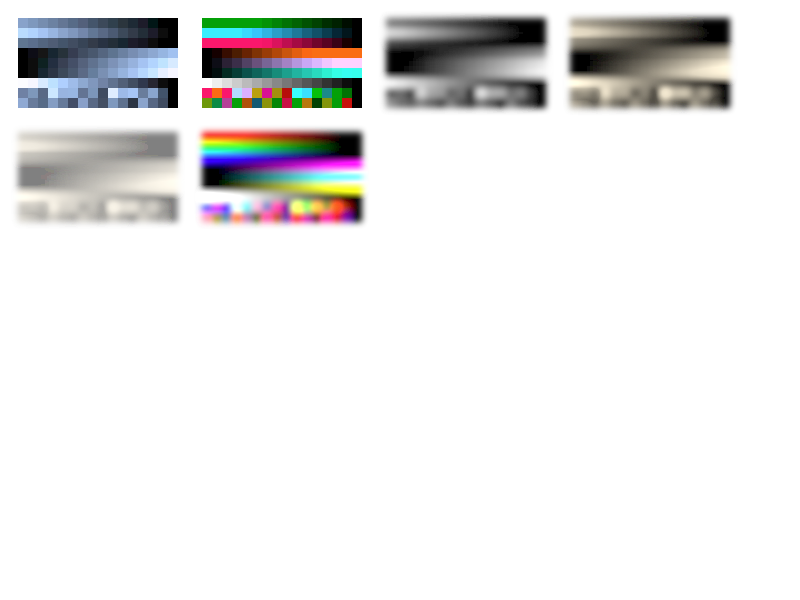
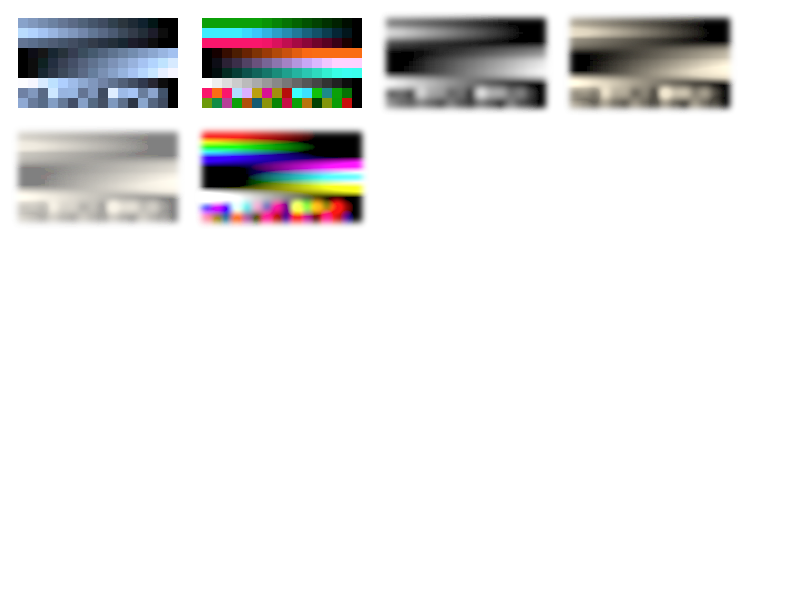
Implement hardware accelerated Brightness and contrast filters https://bugs.webkit.org/show_bug.cgi?id=75521 https://bugs.webkit.org/show_bug.cgi?id=76719
Reviewed by Simon Fraser.

Source/WebCore:

Implemented hardware accelerated brightness and contrast filters. This also fixes
the bug where grayscale filter was accidentally never getting hardware accelerated.
It also complies with proposed spec changes for the brightness filter to be additive
rather than multiplicative, according to https://bugs.webkit.org/show_bug.cgi?id=76719.
Had to make both fixes in the same patch because I had to change the allowed brightness
values for the hardware version, so I had to change the software version as well.

Tests: css3/filters/effect-brightness-hw.html
       css3/filters/effect-contrast-hw.html

* css/CSSParser.cpp:
(WebCore::CSSParser::parseBuiltinFilterArguments):
* css/CSSStyleSelector.cpp:
(WebCore::CSSStyleSelector::createFilterOperations):
* platform/graphics/ca/mac/PlatformCALayerMac.mm:
(PlatformCALayer::setFilters):
(PlatformCALayer::filtersCanBeComposited):
* rendering/FilterEffectRenderer.cpp:
(WebCore::FilterEffectRenderer::build):

LayoutTests:

New tests for hardware accelerated brightness and contrast filters. Also
added brightness and contrast values to effect-combined-hw test. And changed
brightness values in effect-brightness.html to reflect new spec.
Also fixed parsing and computed style tests to reflect new brightness spec.

* css3/filters/effect-brightness-expected.png:
* css3/filters/effect-brightness-hw-expected.png: Added.
* css3/filters/effect-brightness-hw-expected.txt: Added.
[…]

Changed region(s): [[0.25, 0.21, 0.4688, 0.39]]

diff --git a/css3/filters/script-tests/filter-property-computed-style.js b/css3/filters/script-tests/filter-property-computed-style.js
@@ -231,11 +231,6 @@ testComputedFilterRule("Integer value",
                       ["WebKitCSSFilterValue.CSS_FILTER_BRIGHTNESS"],
                       ["brightness(1)"]);
 
-testComputedFilterRule("Value greater than 1",
-                      "brightness(2)", 1,
-                      ["WebKitCSSFilterValue.CSS_FILTER_BRIGHTNESS"],
-                      ["brightness(2)"]);
-
 testComputedFilterRule("Float value converts to integer",
                       "brightness(1.0)", 1,
                       ["WebKitCSSFilterValue.CSS_FILTER_BRIGHTNESS"],
@@ -249,7 +244,7 @@ testComputedFilterRule("Zero value",
 testComputedFilterRule("No values",
                       "brightness()", 1,
                       ["WebKitCSSFilterValue.CSS_FILTER_BRIGHTNESS"],
-                      ["brightness(1)"]);
+                      ["brightness(0)"]);
 
 testComputedFilterRule("Multiple values",
                       "brightness(0.5) brightness(0.25)", 2,
@@ -363,7 +358,7 @@ testComputedFilterRule("Multiple operations",
                ]);
 
 testComputedFilterRule("Percentage values",
-                      "grayscale(50%) sepia(25%) saturate(75%) invert(20%) opacity(90%) brightness(130%) contrast(30%)", 7,
+                      "grayscale(50%) sepia(25%) saturate(75%) invert(20%) opacity(90%) brightness(60%) contrast(30%)", 7,
                       [
                           "WebKitCSSFilterValue.CSS_FILTER_GRAYSCALE",
                           "WebKitCSSFilterValue.CSS_FILTER_SEPIA",
@@ -379,7 +374,7 @@ testComputedFilterRule("Percentage values",
                           "saturate(0.75)",
                           "invert(0.2)",
                           "opacity(0.9)",
-                          "brightness(1.3)",
+                          "brightness(0.6)",
                           "contrast(0.3)"
               ]);
 

diff --git a/css3/filters/script-tests/filter-property-parsing.js b/css3/filters/script-tests/filter-property-parsing.js
@@ -301,11 +301,6 @@ testFilterRule("Percentage value",
               ["WebKitCSSFilterValue.CSS_FILTER_BRIGHTNESS"],
               ["brightness(50%)"]);
 
-testFilterRule("Percentage value > 1",
-              "brightness(150%)", 1, "brightness(150%)",
-              ["WebKitCSSFilterValue.CSS_FILTER_BRIGHTNESS"],
-              ["brightness(150%)"]);
-
 testFilterRule("Float value converts to integer",
               "brightness(1.0)", 1, "brightness(1)",
               ["WebKitCSSFilterValue.CSS_FILTER_BRIGHTNESS"],
@@ -320,11 +315,6 @@ testFilterRule("No values",
               "brightness()", 1, "brightness()",
               ["WebKitCSSFilterValue.CSS_FILTER_BRIGHTNESS"],
               ["brightness()"]);
-
-testFilterRule("Value greater than one",
-              "brightness(2)", 1, "brightness(2)",
-              ["WebKitCSSFilterValue.CSS_FILTER_BRIGHTNESS"],
-              ["brightness(2)"]);
 
 testFilterRule("Multiple values",
               "brightness(0.5) brightness(0.25)", 2, "brightness(0.5) brightness(0.25)",

diff --git a/css3/filters/script-tests/filter-property-parsing-invalid.js b/css3/filters/script-tests/filter-property-parsing-invalid.js
@@ -68,8 +68,8 @@ testInvalidFilterRule("Length instead of number", "brightness(10px)");
 testInvalidFilterRule("Too many parameters", "brightness(0.5 0.5)");
 testInvalidFilterRule("Too many parameters and commas", "brightness(0.5, 0.5)");
 testInvalidFilterRule("Trailing comma", "brightness(0.5,)");
-testInvalidFilterRule("Negative parameter", "brightness(-0.5)");
-testInvalidFilterRule("Negative percent", "brightness(-10%)");
+testInvalidFilterRule("Parameter out of bounds (negative)", "brightness(-1.1)");
+testInvalidFilterRule("Parameter out of bounds (positive)", "brightness(101%)");
 
 testInvalidFilterRule("Length instead of number", "contrast(10px)");
 testInvalidFilterRule("Too many parameters", "contrast(0.5 0.5)");

diff --git a/css3/filters/effect-contrast-hw.html b/css3/filters/effect-contrast-hw.html
@@ -1,0 +1,11 @@
+<style>
+img {
+    -webkit-transform:translateZ(0);
+}
+</style>
+<img style="-webkit-filter: contrast(0)" src="resources/reference.png">
+<img style="-webkit-filter: contrast(0.5)" src="resources/reference.png">
+<img style="-webkit-filter: contrast(1.0)" src="resources/reference.png">
+<img style="-webkit-filter: contrast(2)" src="resources/reference.png">
+<img style="-webkit-filter: contrast(5)" src="resources/reference.png">
+<img style="-webkit-filter: contrast(10)" src="resources/reference.png">

diff --git a/css3/filters/effect-brightness-hw.html b/css3/filters/effect-brightness-hw.html
@@ -1,9 +1,8 @@
-<script>
-if (window.layoutTestController) {
-    // Force software rendering mode.
-    window.layoutTestController.overridePreference("WebKitAcceleratedCompositingEnabled", "0");
+<style>
+img {
+    -webkit-transform:translateZ(0);
 }
-</script>
+</style>
 <img style="-webkit-filter: brightness(-1)" src="resources/reference.png">
 <img style="-webkit-filter: brightness(-0.6)" src="resources/reference.png">
 <img style="-webkit-filter: brightness(-0.3)" src="resources/reference.png">

diff --git a/css3/filters/effect-combined.html b/css3/filters/effect-combined.html
@@ -14,4 +14,4 @@ img {
 <img style="-webkit-filter: grayscale() blur(3px)" src="resources/reference.png">
 <img style="-webkit-filter: blur(3px) hue-rotate(-90deg) sepia()" src="resources/reference.png">
 <img style="-webkit-filter: blur(3px) opacity(0.5) hue-rotate(-90deg) sepia()" src="resources/reference.png">
-<img style="-webkit-filter: blur(3px) brightness(2)" src="resources/reference.png">
+<img style="-webkit-filter: blur(3px) brightness(0.2) contrast(2)" src="resources/reference.png">

diff --git a/css3/filters/effect-combined-hw.html b/css3/filters/effect-combined-hw.html
@@ -9,3 +9,4 @@ img {
 <img style="-webkit-filter: grayscale() blur(3px)" src="resources/reference.png">
 <img style="-webkit-filter: blur(3px) hue-rotate(-90deg) sepia()" src="resources/reference.png">
 <img style="-webkit-filter: blur(3px) opacity(0.5) hue-rotate(-90deg) sepia()" src="resources/reference.png">
+<img style="-webkit-filter: blur(3px) brightness(0.2) contrast(2)" src="resources/reference.png">
